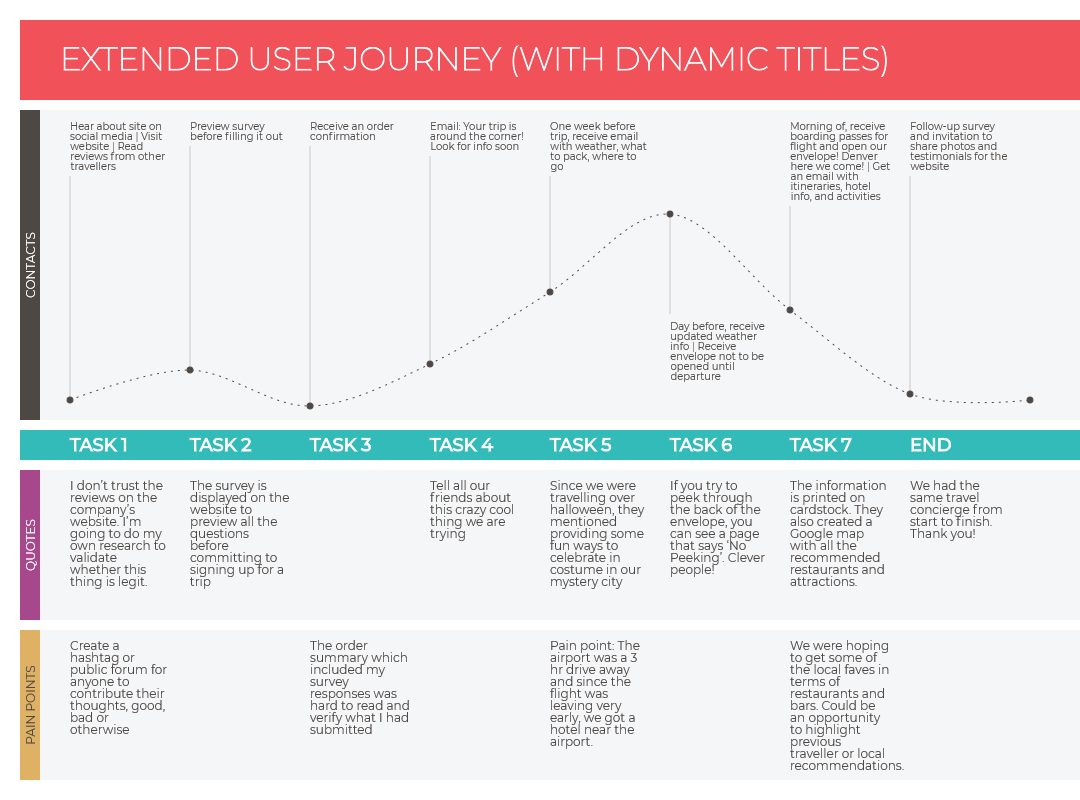
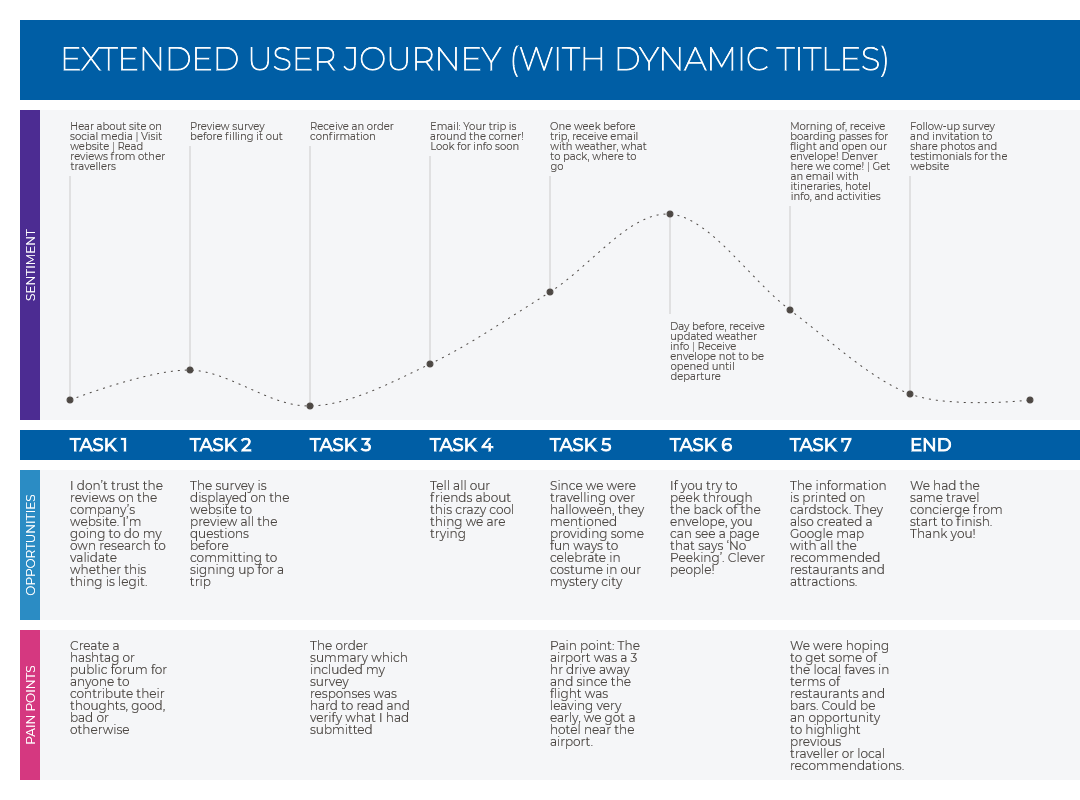
Amend color scheme

Changed region(s): [[0.0, 0.0, 1.0, 0.9688]]

diff --git a/src/index.js b/src/index.js
@@ -23,7 +23,8 @@ const ctx = canv.getContext('2d');
 
 const box = { width: 120 };
 let titles = [];
-const colorScheme = ['#F15159', '#4D4844', '#32BBB9', '#A7488C', '#DFB164'];
+//const colorScheme = ['#F15159', '#4D4844', '#32BBB9', '#A7488C', '#DFB164'];
+const colorScheme = ['#005EA5', '#4c2c92', '#005ea5', '#2b8cc4', '#d53880'];
 const textLight = '#FFFFFF';
 const textDark = '#4D4844';
 const bgGrey = '#F5F6F8';
@@ -330,7 +331,7 @@ function layout() {
       return `translate(${xText}, ${yText}) rotate(270)`;
     })
     .attr('class', 'subtitle')
-    .attr('fill', textDark)
+    .attr('fill', textLight)
     .attr('stroke', 'none')
     .attr('font-size', 12)
     .attr('font-family', 'Montserrat')
